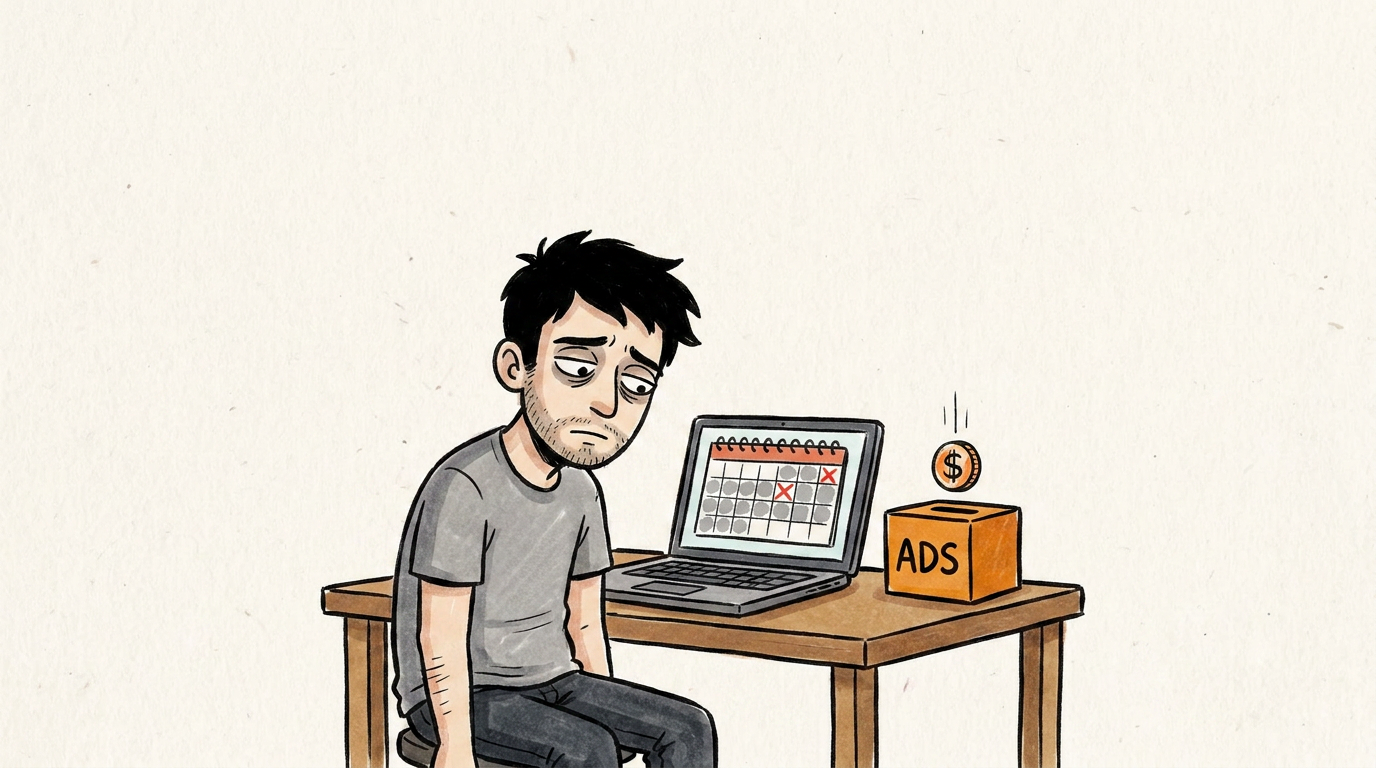
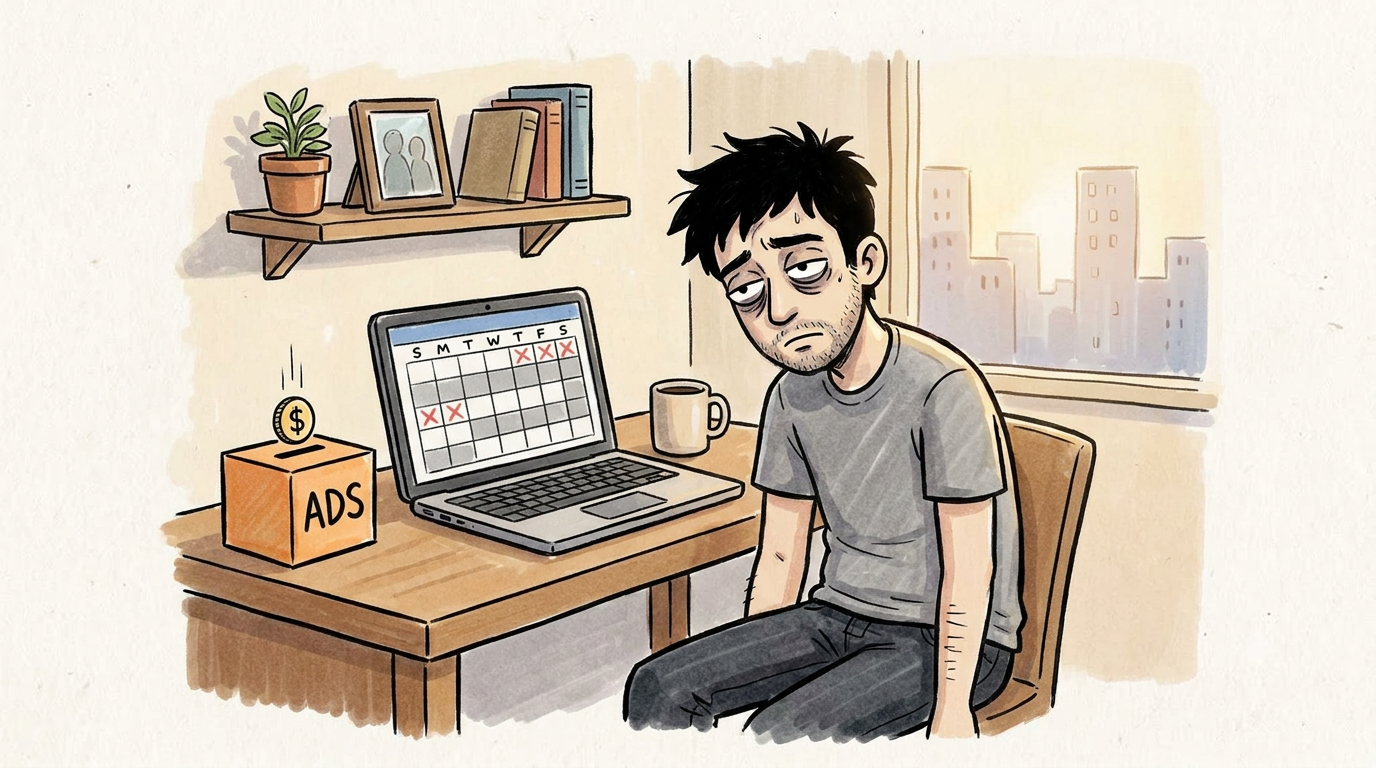
Reel-10: contextual SC-02 (Owner in real office) + add context/wardrobe art-direction rule

diff --git a/Reel-10 - The Order Smart Businesses Build In/Reel-10_SCENE-PROMPTS.md b/Reel-10 - The Order Smart Businesses Build In/Reel-10_SCENE-PROMPTS.md
@@ -19,6 +19,15 @@ an expression sheet, NOT multiple copies, no mood labels".
 **Models:** OWNER/SYS → `imagen-nano-banana-2` + sheet. OBJECT → `recraft-v4-1`.
 FILES: `Characters/Owner.png` · `Characters/SYS-robot.png`.
 
+### 🎬 CONTEXT & WARDROBE (art direction)
+- **Character scenes get a real ENVIRONMENT/context** — an actual office, desk, window, shelf, plant,
+  props — not a figure floating on blank paper. Context adds story and stops it feeling like clip-art.
+- **Pure diagram scenes stay clean** (funnel, the 6-layer stack, calendars, tracking loop) — a
+  background would fight the labels. Keep those on the cream plate.
+- **Wardrobe:** dress professional/aspirational characters SHARP — formal shirt, blazer, or an
+  old-money knit sweater. Exception: **the Owner stays casual/tired (grey tee)** on purpose — that
+  scruffy "before" look is his locked identity; only his *setting* gets richer, not his clothes.
+
 ---
 
 ## HOOK — 0:00–0:10
